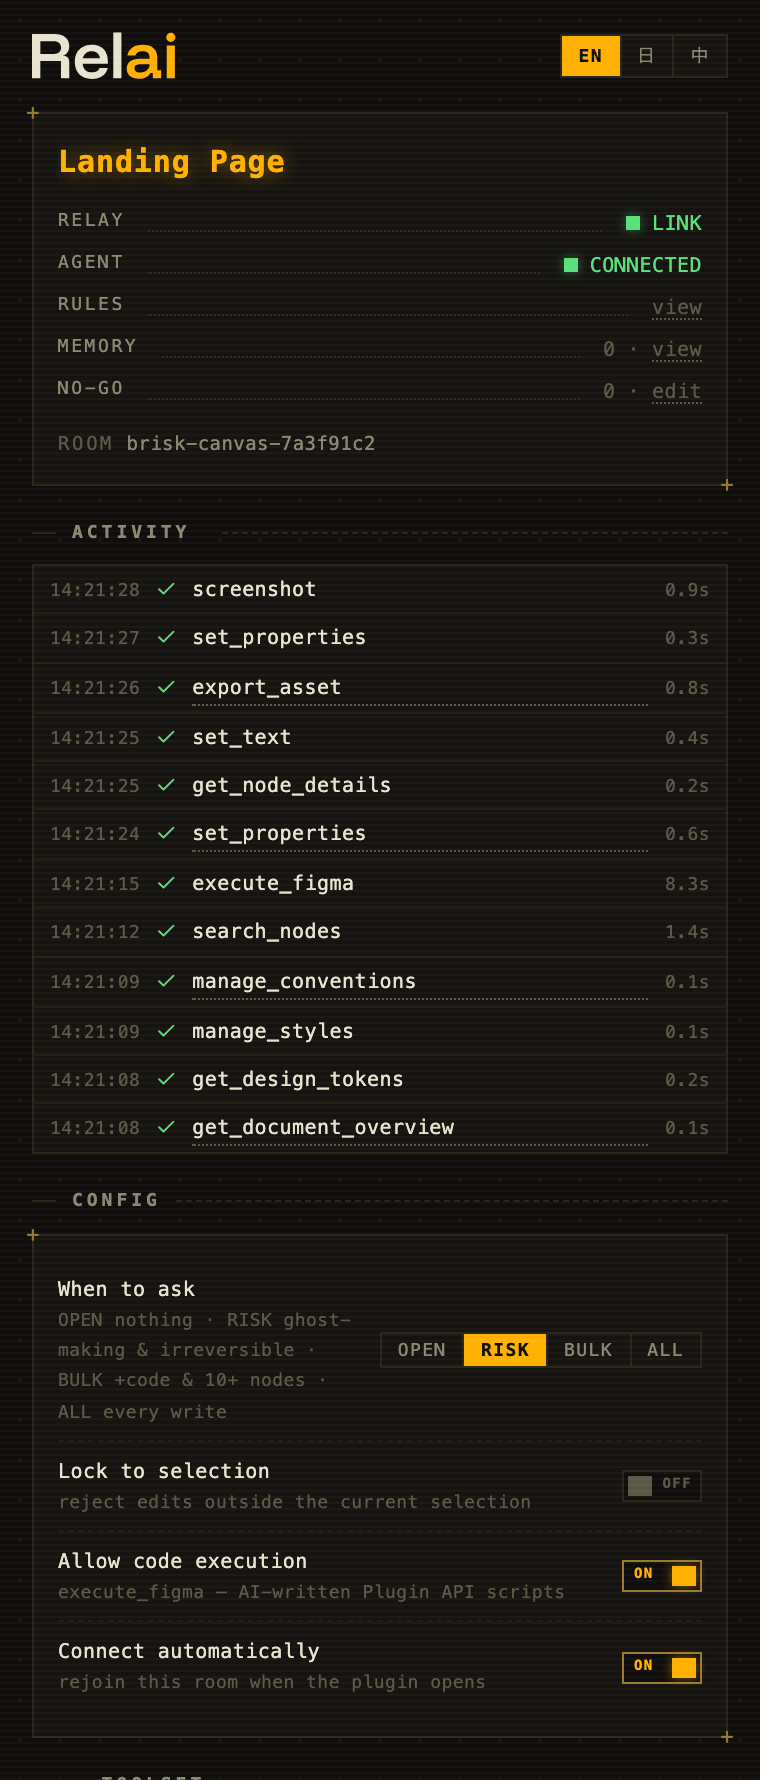
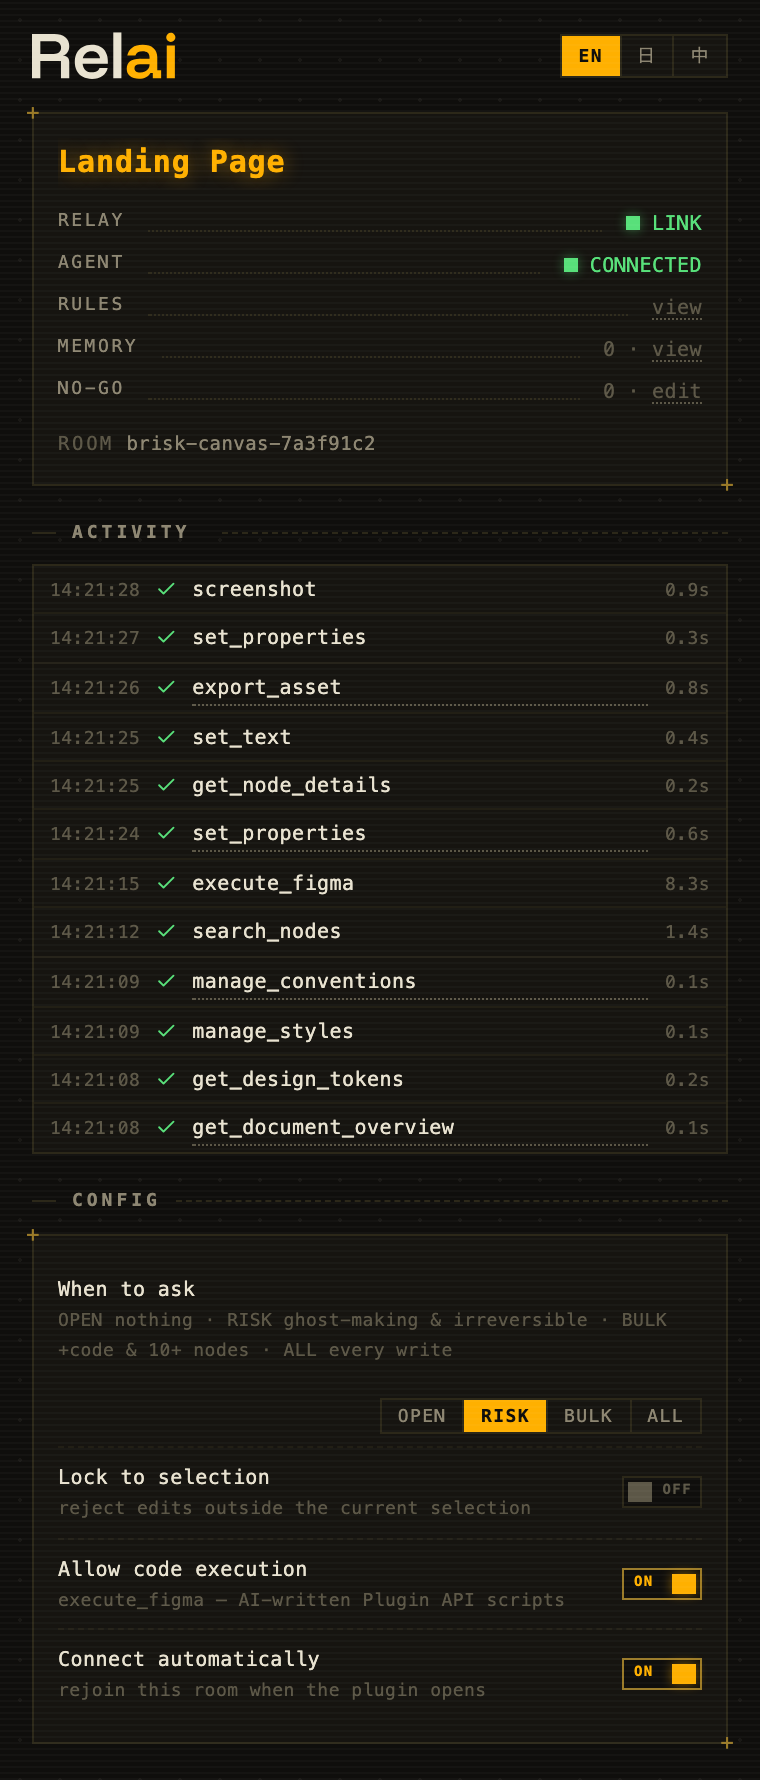
Plugin UI: dial row stacks — full-width hint, segmented control on its own line; panel shots refreshed
Claude-Session: https://claude.ai/code/session_01LE9DxpFc66NXBEVTWs7co9

diff --git a/packages/figma-plugin/ui.html b/packages/figma-plugin/ui.html
@@ -374,6 +374,8 @@
       padding: var(--sp-6) 0;
     }
     .setting-row + .setting-row { border-top: 1px dashed var(--line-soft); }
+    .setting-row.stack { flex-direction: column; align-items: stretch; }
+    .setting-row.stack .seg { align-self: flex-end; margin-top: var(--sp-4); }
     .setting-row .label { font-size: 10px; color: var(--text); }
     .setting-row .sub { display: block; font-size: 9px; color: var(--faint); }
 
@@ -698,7 +700,7 @@
     <!-- Settings -->
     <div class="rule"><span data-i18n="settings">Config</span></div>
     <div class="panel">
-      <div class="setting-row">
+      <div class="setting-row stack">
         <span class="label"><span data-i18n="approvals">When to ask</span><span class="sub" data-i18n="approvals_hint">OPEN nothing · RISK ghost-making &amp; irreversible · BULK +code &amp; 10+ nodes · ALL every write</span></span>
         <div class="seg approval-seg" role="group" aria-label="Approvals">
           <button id="apprOpen" onclick="setApproval('open')">OPEN</button>
